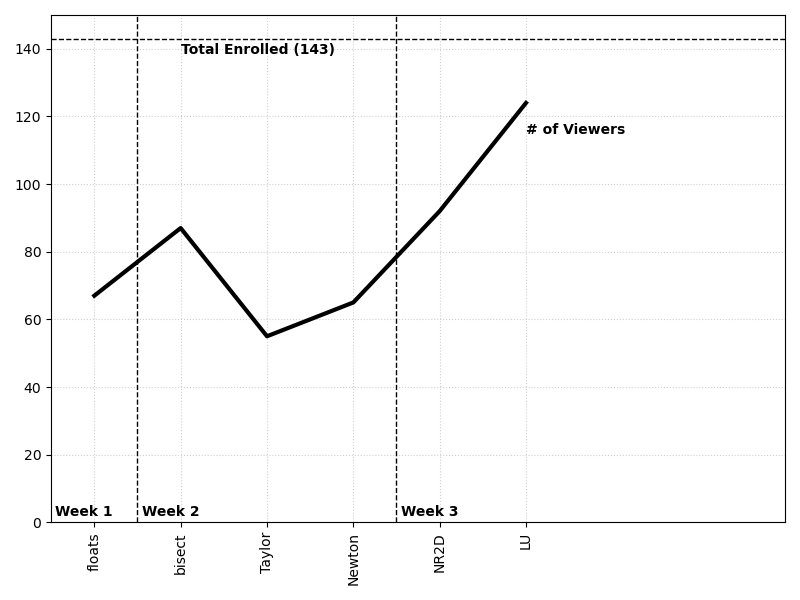
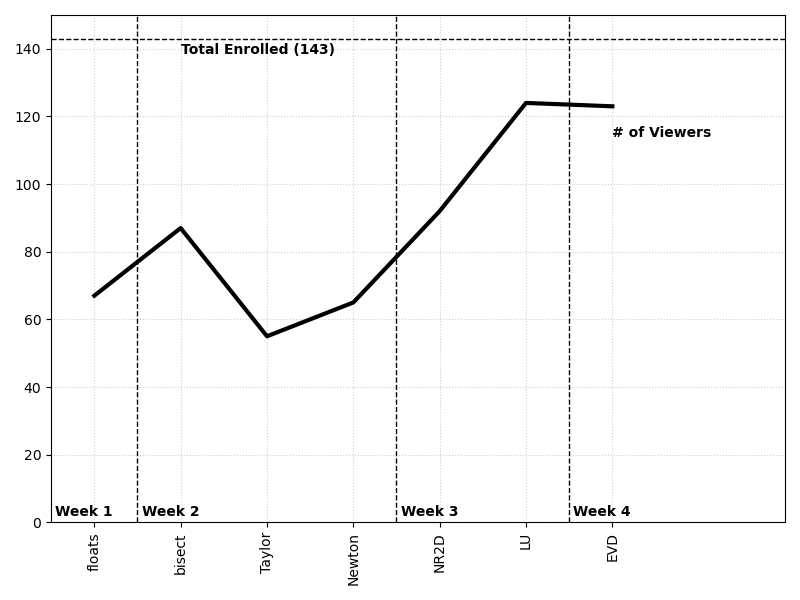
updating video views

Changed region(s): [[0.6562, 0.15, 0.9062, 0.24], [0.6875, 0.84, 0.7812, 0.87], [0.75, 0.9, 0.7812, 0.93]]

diff --git a/4_matrix/svd_problem.md b/4_matrix/svd_problem.md
@@ -120,6 +120,6 @@ Take a look at your low-rank approximation. For our purposes, we are trying to m
 
 
 :::{tab-item} Julia
-```plo``` then ```display```
+```plot``` then ```display```
 :::
 ::::
